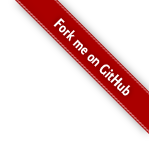
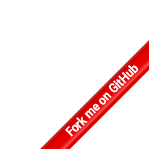
Link git finish v.02

diff --git a/src/component/Footer.vue b/src/component/Footer.vue
@@ -54,9 +54,7 @@ export default {
 .link_git{
   position: absolute;
   right: 0;
-  top: 0;
-  /* bottom: 0;
-  left: 0; */
+  bottom: 0;
 }
 
 a {
